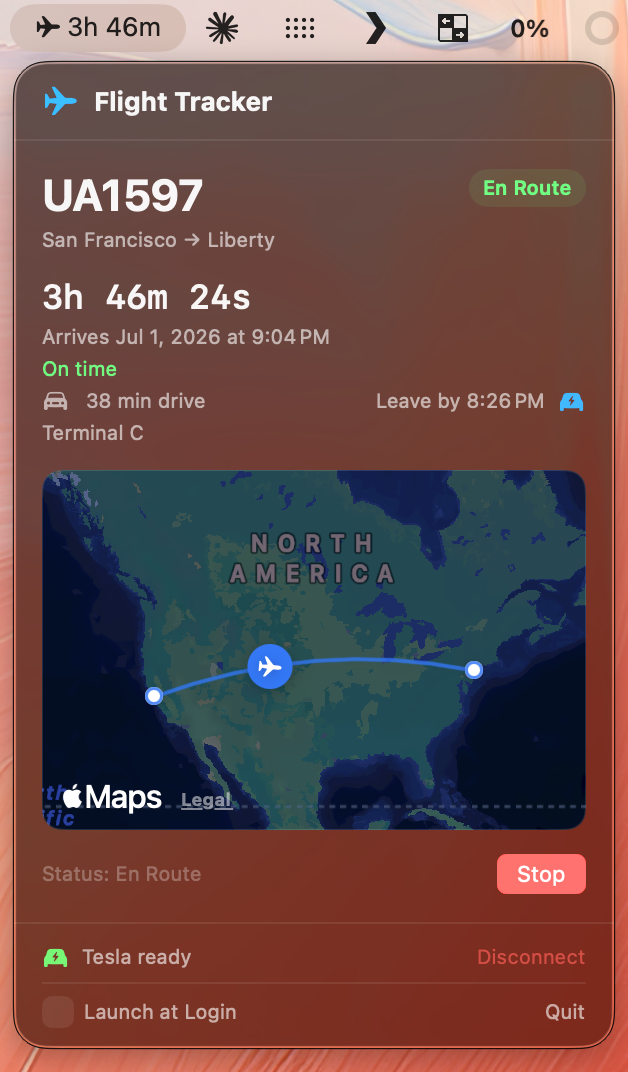
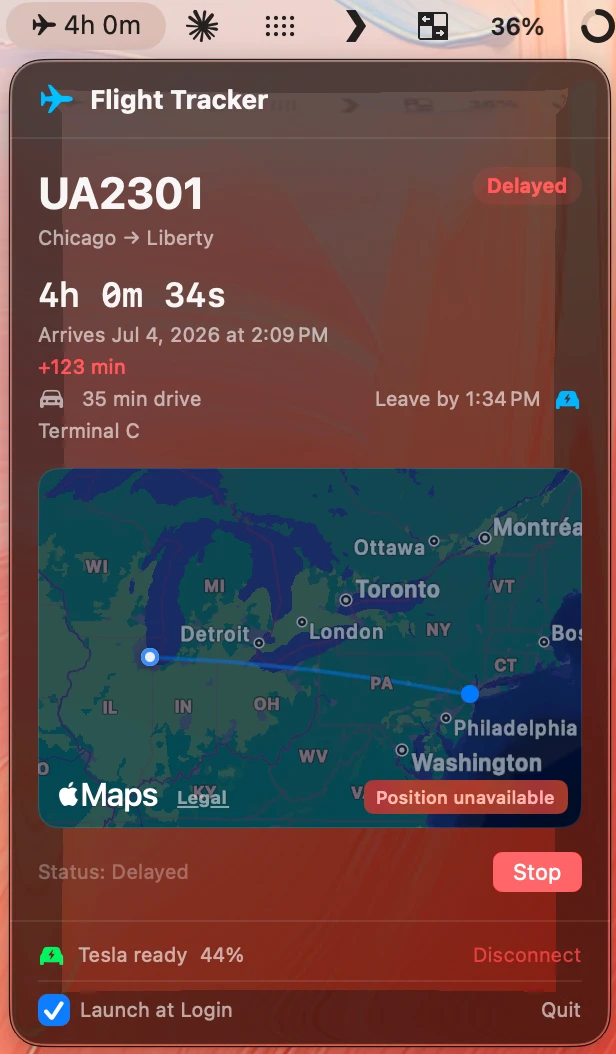
docs: update demo screenshot showing map, delay, and Tesla battery %

diff --git a/README.md b/README.md
@@ -3,7 +3,7 @@
 A macOS menu bar app that tracks a live flight and automatically sends GPS navigation to your Tesla when it's time to leave for the airport — so you never miss a pickup.
 
 <p align="center">
-  <img src="screenshots/demo.png" width="320" alt="FlightMenuBar showing UA1597 en route from San Francisco to Newark with a leave-by time and live map">
+  <img src="screenshots/demo.png" width="320" alt="FlightMenuBar showing UA2301 delayed from Chicago to Newark with live map, leave-by time, and Tesla battery percentage">
 </p>
 
 ---